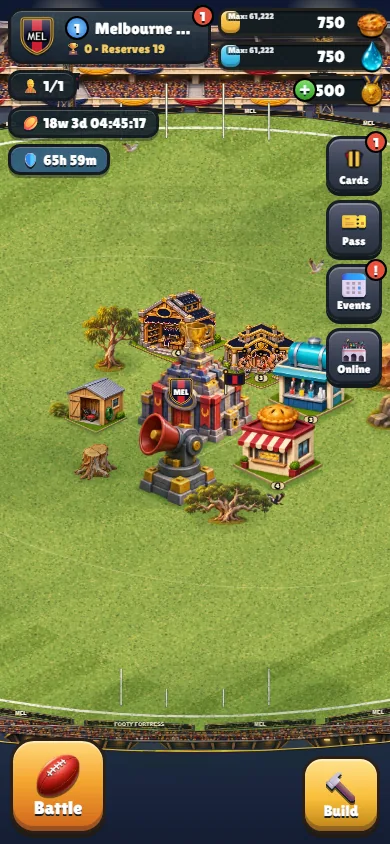
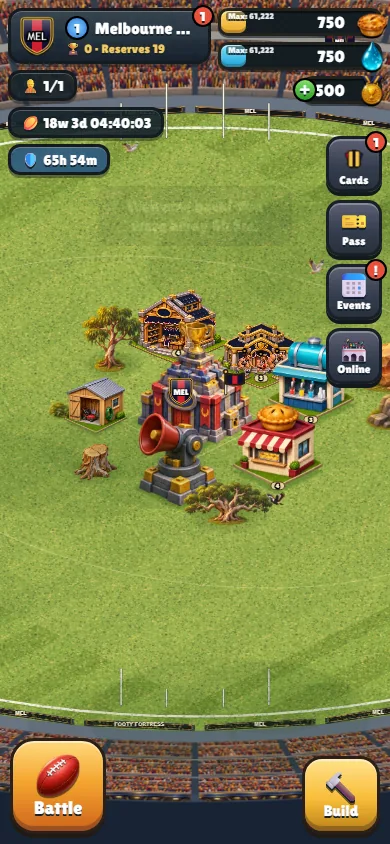
Wrap painted seating around the full oval

Changed region(s): [[0.0, 0.0, 1.0, 0.1848], [0.0, 0.8318, 1.0, 0.955], [0.1846, 0.1848, 0.2462, 0.2156]]

diff --git a/js/stadium.js b/js/stadium.js
@@ -3,20 +3,7 @@
 // Stands rake gently outward, so the front stands never rise over the playing area.
 const BOWL = { R0: N * 0.74, tiers: 10, step: 1.2, rise: 0.75, seg: 96 };
 let crowdPat = null, crowdSrc = null;
-const stadiumPatterns = new WeakMap();
-
-function stadiumPattern(sprite, width, height) {
-  const saved = stadiumPatterns.get(sprite);
-  if (saved?.ctx === ctx && saved.width === width && saved.height === height) return saved.pattern;
-  const tile = document.createElement("canvas");
-  tile.width = Math.max(1, Math.round(width)); tile.height = Math.max(1, Math.round(height));
-  const g = tile.getContext("2d");
-  g.fillStyle = "#343d50"; g.fillRect(0, 0, tile.width, tile.height);
-  g.drawImage(sprite.image, sprite.x, sprite.y, sprite.w, sprite.h, 0, 0, tile.width, tile.height);
-  const pattern = ctx.createPattern(tile, "repeat");
-  stadiumPatterns.set(sprite, {ctx, width, height, pattern});
-  return pattern;
-}
+let paintedBowl;
 
 function crowdPattern() {
   if (crowdPat && crowdSrc === ctx) return crowdPat;
@@ -46,50 +33,110 @@ function annulus(r1, z1, r2, z2, fill, stroke) {
   if (stroke) { ctx.strokeStyle = stroke; ctx.lineWidth = Math.max(1, TW * .02); ctx.stroke(); }
 }
 
-function drawStadiumBowl(club) {
+function drawFallbackStands() {
   const { R0, tiers, step, rise } = BOWL;
-  // night sky behind the stands, lit from the floodlights
-  const sky = ctx.createLinearGradient(0, 0, 0, H);
-  const stand = artSprites.get("stadium-grandstand");
-  sky.addColorStop(0, "#0d1730"); sky.addColorStop(.5, stand ? "#465b7c" : "#1c2c4f"); sky.addColorStop(1, "#141d33");
-  ctx.fillStyle = sky; ctx.fillRect(0, 0, W, H);
-
-  // concrete concourse ring, then the seating tiers with the crowd
   const base = R0 + 1.7;
-  const crowd = artSprites.get("stadium-crowd"), roof = artSprites.get("stadium-roof");
-  const seating = crowd ? stadiumPattern(crowd, TW*3.8, TH*1.45) : crowdPattern();
-  if (stand) {
-    annulus(R0+1.1, 0, R0+3.2, 1.15, "#485160", "#252b34");
-    ctx.save();
-    const [, centreY] = P(N/2,N/2);
-    ctx.beginPath(); ctx.rect(0, centreY-TH, W, H+TH); ctx.clip();
-  }
   annulus(R0 + 1.2, .35, base, .45, "#8b8f97", "#00000055");
   for (let i = 0; i < tiers; i++) {
     const rIn = base + i * step, rOut = rIn + step, zIn = .45 + i * rise, zOut = zIn + rise;
-    annulus(rIn, zIn, rOut, zOut, seating);
+    annulus(rIn, zIn, rOut, zOut, crowdPattern());
     annulus(rIn, zIn, rOut, zOut, i % 2 ? "#00000026" : "#ffffff10", "#00000040");
     if (i === 3 || i === 7) annulus(rOut - .18, zOut - .1, rOut, zOut, "#c9ccd2"); // aisle walkways
   }
   // roof canopy over the top tier
   const rTop = base + tiers * step, zTop = .45 + tiers * rise;
-  annulus(rTop - .2, zTop, rTop + 2.6, zTop + 1.4, roof ? stadiumPattern(roof,TW*4.5,TH*1.8) : "#3a4352", "#0008");
+  annulus(rTop - .2, zTop, rTop + 2.6, zTop + 1.4, "#3a4352", "#0008");
   annulus(rTop + 2.4, zTop + 1.35, rTop + 2.7, zTop + 1.5, "#f6c343");
-  const rear = Math.PI*1.25;
-  if (stand) {
-    ctx.restore();
-    const [cx,rail] = ringPt(R0+1.2,0,rear);
-    const w = TW*R0*1.48, h = w*stand.h/stand.w*.55;
-    ctx.drawImage(stand.image,stand.x,stand.y,stand.w,stand.h,cx-w/2,rail-h*.69,w,h);
+}
+
+function paintBowlLayer(crowd, roof) {
+  const inner = BOWL.R0 + 1.2, outer = inner + 11.5;
+  const width = Math.ceil((outer+1.5)*Math.SQRT2*TW);
+  const height = Math.ceil(width*.5+TH*6);
+  const resolution = Math.min(1, 2400/width);
+  const canvas = document.createElement("canvas");
+  canvas.width = Math.ceil(width*resolution);
+  canvas.height = Math.ceil(height*resolution);
+  const g = canvas.getContext("2d");
+  const top = height/2+TH*2.25;
+  g.setTransform(resolution,0,0,resolution,width/2*resolution,top*resolution);
+  const arc = Math.PI*2/48;
+  const point = (radius, rise, angle) => [Math.sin(angle)*radius*TW/Math.SQRT2,
+    -(Math.cos(angle)*radius/Math.SQRT2+rise)*TH];
+  const ellipse = (r,z) => g.ellipse(0,-z*TH,r*TW/Math.SQRT2,r*TH/Math.SQRT2,0,0,Math.PI*2);
+  const band = (r0,z0,r1,z1,color) => {
+    g.beginPath(); ellipse(r1,z1); g.moveTo(r0*TW/Math.SQRT2,-z0*TH); ellipse(r0,z0);
+    g.fillStyle=color; g.fill("evenodd");
+  };
+  const bays = (art,r0,z0,r1,z1,deck) => {
+    for(let i=0;i<48;i++){
+      const a=(i+.035)*arc, b=(i+.965)*arc, near=Math.cos((a+b)/2)<0;
+      const a0=point(r0,z0,a), a1=point(r0,z0,b), b0=point(r1,z1,a), b1=point(r1,z1,b);
+      // The near bays face back toward the turf, so their tops are on the inner edge.
+      let [tl,tr,bl,br]=near?[a0,a1,b0,b1]:[b0,b1,a0,a1];
+      if(tl[0]>tr[0]) [tl,tr,bl,br]=[tr,tl,br,bl];
+      const x=(tr[0]-tl[0]+br[0]-bl[0])/2, y=(tr[1]-tl[1]+br[1]-bl[1])/2;
+      const dx=(bl[0]-tl[0]+br[0]-tr[0])/2, dy=(bl[1]-tl[1]+br[1]-tr[1])/2;
+      g.save();
+      g.beginPath(); g.moveTo(...tl); g.lineTo(...tr); g.lineTo(...br); g.lineTo(...bl); g.closePath();
+      g.clip();
+      g.transform(x,y,dx,dy,tl[0],tl[1]);
+      g.drawImage(art.image,art.x,art.y,art.w,art.h,-.07,0,1.14,1);
+      if(deck!==undefined){
+        // Aisles and tunnel mouths break up the rows where spectators enter each deck.
+        if((i+3)%8===0){
+          g.fillStyle="#999da2"; g.fillRect(.37,.20,.26,.8);
+          g.fillStyle="#303844"; g.fillRect(.40,.24,.20,.76);
+          g.fillStyle="#b9b5a6"; g.fillRect(.40,.25,.20,.065);
+          g.fillStyle="#17212d"; g.fillRect(.43,.39,.14,.61);
+        }
+        g.fillStyle=(i+deck)%3===0?"#142d4138":"#142d411c";
+        g.fillRect(0,0,1,1);
+      }
+      g.restore();
+    }
+  };
+  band(inner,0,outer+.5,-.7,"#182334");                   // exterior base wall
+  band(outer+.26,-.49,outer+.5,-.2,"#303d4c");
+  band(outer+.12,-.15,outer+.4,.15,"#445160");
+  band(inner,0,outer,4.2,"#5b6370");                      // full rake of the bowl
+  band(inner,0,inner+1.3,.2,"#697383");                   // field-level concourse
+  for(let deck=0;deck<3;deck++){
+    const r=inner+1.3+deck*3.5, z=.2+deck*1.4;
+    band(r,z,r+3.12,z+1.18,"#333c4c");
+    bays(crowd,r,z,r+3.12,z+1.18,deck);
+    band(r+3.12,z+1.18,r+3.5,z+1.4,deck===2?"#7b8490":"#9a9893");
   }
+  band(outer-.12,4.12,outer+.27,4.34,"#c49a53");          // roofline rail
+  // The roof sits on the outside of the seating with the same projected bays.
+  band(outer-.22,4.14,outer+1.3,4.72,"#394859");
+  bays(roof,outer-.22,4.14,outer+1.3,4.72);
+  return {canvas,width,height,top,crowd,roof,tile:TW};
+}
+
+function drawStadiumBowl(club) {
+  const { R0, tiers, step, rise } = BOWL;
+  const crowd = artSprites.get("stadium-crowd"), roof = artSprites.get("stadium-roof");
+  const painted = crowd && roof;
+  const sky = ctx.createLinearGradient(0, 0, 0, H);
+  sky.addColorStop(0, "#0d1730"); sky.addColorStop(.5, painted ? "#354761" : "#1c2c4f"); sky.addColorStop(1, "#141d33");
+  ctx.fillStyle = sky; ctx.fillRect(0, 0, W, H);
+
+  if(painted){
+    if(paintedBowl?.tile!==TW || paintedBowl.crowd!==crowd || paintedBowl.roof!==roof)
+      paintedBowl=paintBowlLayer(crowd,roof);
+    const {canvas,width,height,top}=paintedBowl, [cx,cy]=P(N/2,N/2);
+    ctx.drawImage(canvas,cx-width/2,cy-top,width,height);
+  } else drawFallbackStands();
 
   // four light towers
+  const rear = Math.PI*1.25, rTop = R0+1.7+tiers*step, zTop = .45+tiers*rise;
   const mast = artSprites.get("stadium-light-tower");
-  const towers = mast ? [-.88,-.20,.20,.88].map(offset=>rear+offset) : [.25,.75,1.25,1.75].map(a=>Math.PI*a);
+  const towers = mast ? [-1.15,-.42,.42,1.15].map(offset=>rear+offset) : [.25,.75,1.25,1.75].map(a=>Math.PI*a);
   for (const a of towers) {
     if (mast) {
-      const [x,y] = ringPt(R0+2.4,0,a), height = TH*(Math.abs(a-rear)>.5?10.2:8.4);
-      const foot = y+TH*2.6, lamp = foot-height*.92;
+      const [x,foot] = ringPt(R0+9,3.3,a), height = TH*(Math.abs(a-rear)>.5?11.5:9.7);
+      const lamp = foot-height*.92;
       const glow = ctx.createRadialGradient(x,lamp,0,x,lamp,TW*1.2);
       glow.addColorStop(0,"#fff0bb6b"); glow.addColorStop(1,"#fff0bb00");
       ctx.fillStyle=glow; ctx.fillRect(x-TW*1.2,lamp-TW*1.2,TW*2.4,TW*2.4);
@@ -140,17 +187,17 @@ function drawStadiumBowl(club) {
       ctx.save(); ctx.globalAlpha = .9; poly([p[0], p[1], ringPt(r, .14, a2), ringPt(r, .14, a1)], i % 2 ? team.b : team.a, null); ctx.restore();
     }
   }
-  if(stand && club){
+  if(painted && club){
     for (const offset of [-.57,-.39,-.2,.2,.39,.57]) {
-      const [x,y] = ringPt(R0+2.4,1.85,rear+offset);
-      const w = TW*.7, h = TH*.83;
+      const [x,y] = ringPt(R0+6,1.95,rear+offset);
+      const w = TW*.86, h = TH*.98;
       ctx.fillStyle = "#121922"; ctx.fillRect(x-w*.57,y-TH*.14,w*1.14,Math.max(2,TH*.12));
       poly([[x-w/2,y],[x+w/2,y],[x+w/2,y+h],[x,y+h*.83],[x-w/2,y+h]],club.a,"#121922",Math.max(1,TW*.035));
       ctx.fillStyle = club.b; ctx.fillRect(x-w*.46,y+h*.18,w*.92,h*.18);
       drawBadge(ctx,x,y+h*.55,w*.27,club);
     }
   }
-  if(stand){
+  if(painted){
     for (const end of [rear,rear+Math.PI]) {
       for (const offset of [-.13,-.05,.05,.13]) {
         const [x,y] = ringPt(R0-.8,0,end+offset);

diff --git a/sw.js b/sw.js
@@ -1,5 +1,5 @@
 // Offline support: keep the game files cached so it opens like an app.
-const CACHE = "footy-fortress-v31-scenery";
+const CACHE = "footy-fortress-v32-scenery";
 const SHELL = ["./","index.html","style.css","manifest.webmanifest","art/sheets.js",
   "js/data.js","js/render.js","js/art.js","js/stadium.js","js/game.js","js/battle.js","js/season.js","js/raid.js","js/audio.js","js/ui.js","js/cardset.js","js/cards.js","js/gear.js","js/hubs.js","js/tutorial.js","js/net.js","js/install.js",
   "icons/icon-192.png","icons/icon-512.png"];

diff --git a/js/data.js b/js/data.js
@@ -1,5 +1,5 @@
 // ---------- Game data ----------
-const VERSION = "2026.11.10.21";
+const VERSION = "2026.11.10.22";
 // Club names + colours. Logos: drop PNGs named <abbr>.png (e.g. coll.png) into the logos/ folder and they're used everywhere.
 // Player names checked against the 2026 trade period and retirements (lists for the 2027 season); edit freely.
 const CLUBS = [
